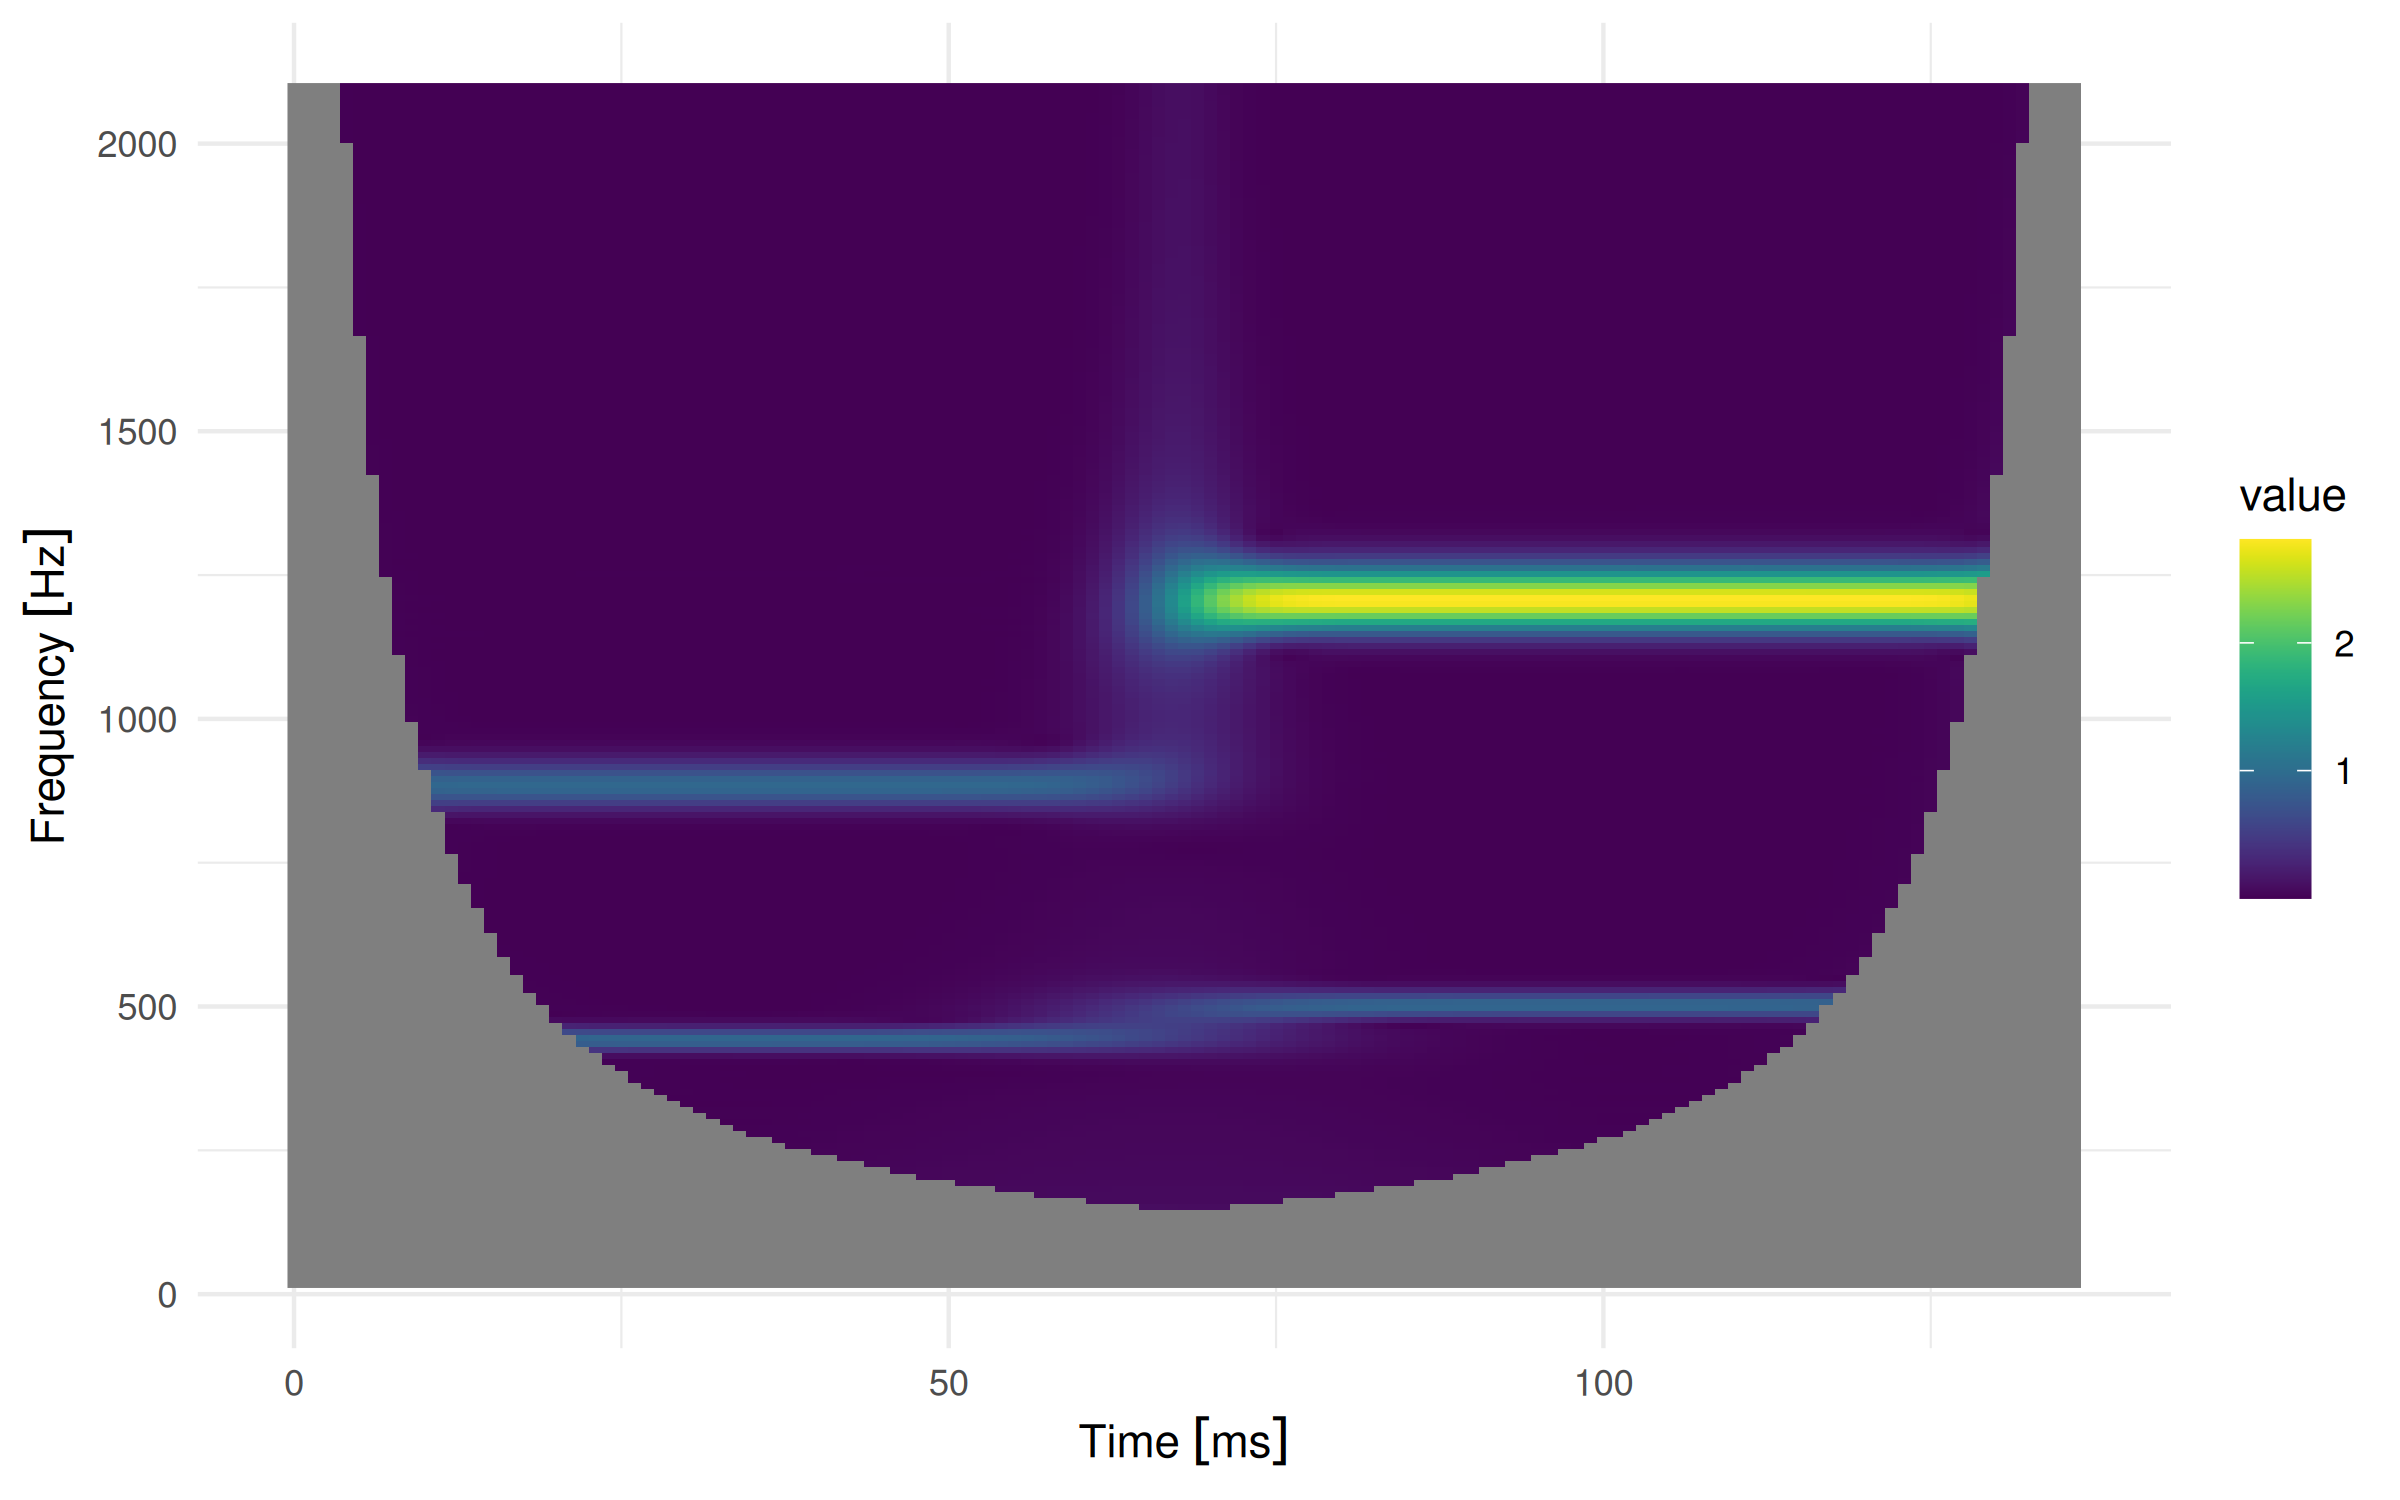
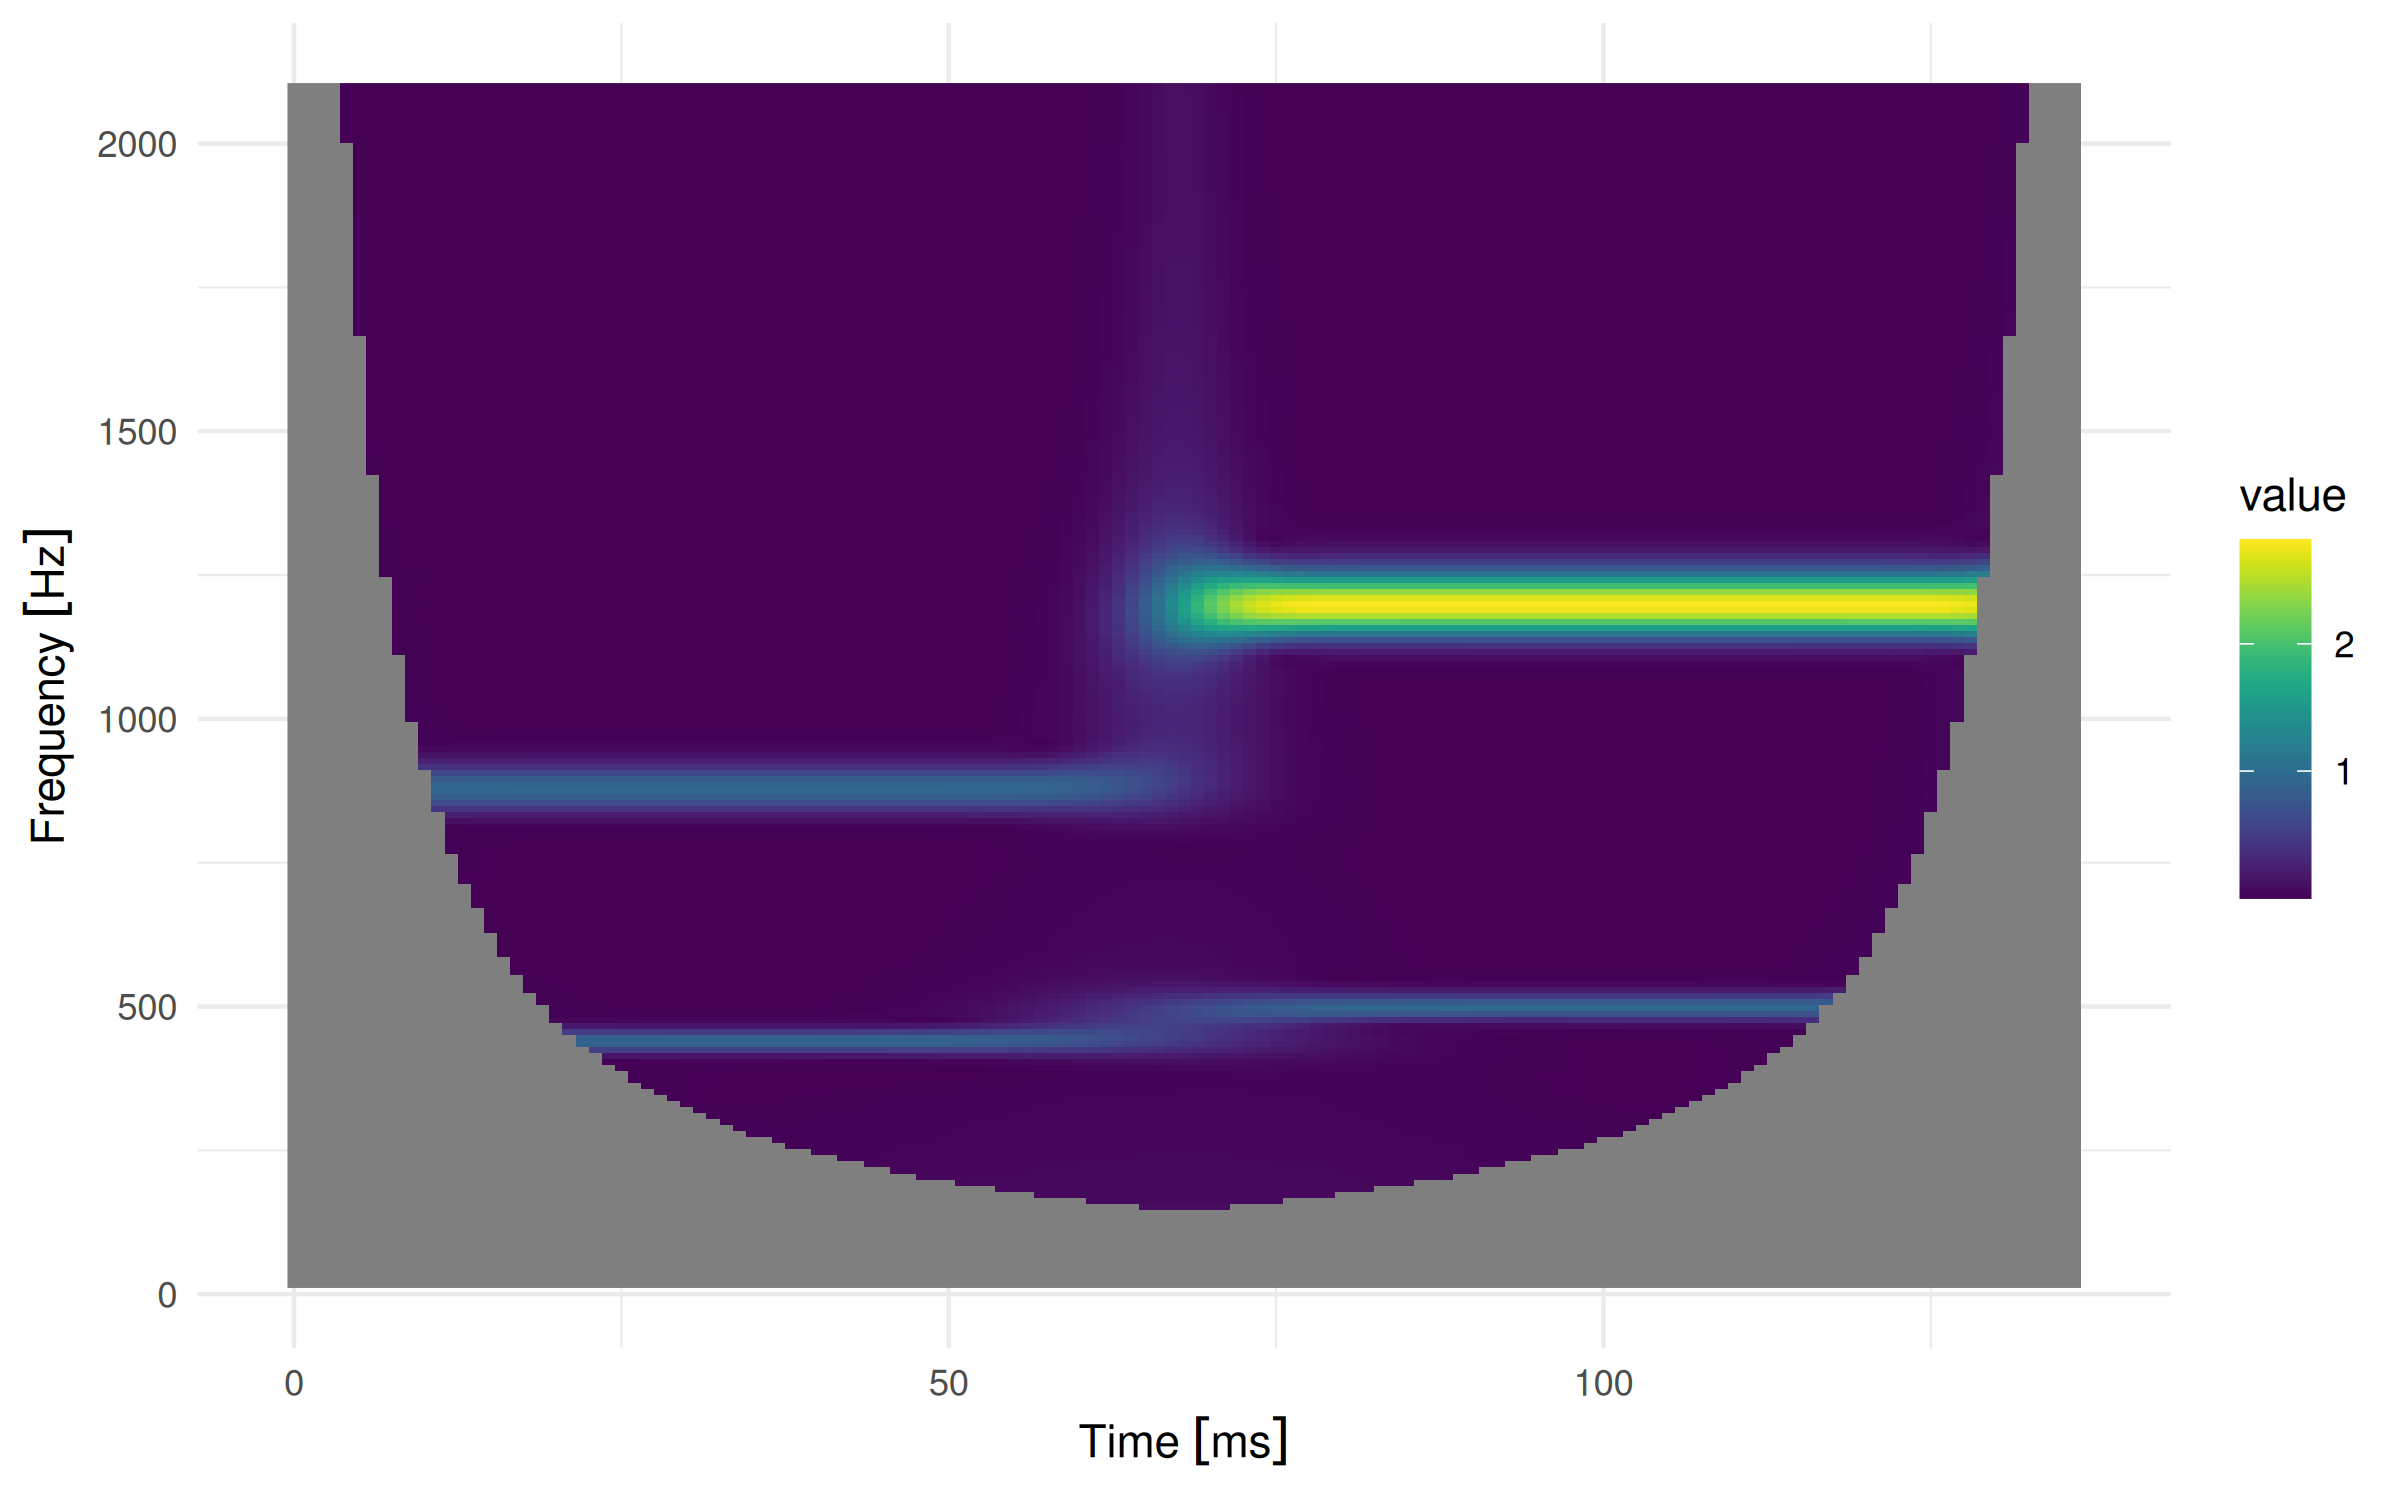
choose time units automatically, README example with exact time steps
- new internal helper pretty_time(): expresses times in s, ms, us or ns,
  depending on their magnitude (the units package keeps the unit that
  results from a calculation, e.g. 1/kHz)
- used for the time column of as.data.frame()/as_tibble(), the time
  offset and resolutions in print(), and the time axis of plot() /
  autoplot() (time_unit now defaults to NULL, i.e. automatic)
- README example: x_sample_freq = 44 kHz and y_sample_freq = 1 kHz, so
  that the output averages over exactly 44 samples (1 ms time steps)

Changed region(s): [[0.5, 0.368, 0.8438, 0.4293]]

diff --git a/README.md b/README.md
@@ -102,7 +102,7 @@ signal <- ts_sin_superpos
 output <-
   fcwt(
     signal,
-    x_sample_freq = u(44.1, "kHz"),
+    x_sample_freq = u(44, "kHz"),
     sigma = 5,
     y_sample_freq = u(1, "kHz"),
     freq_begin = u(16, "Hz"),
@@ -123,12 +123,12 @@ output
 #> * Frequency scale: 16 [Hz] - 2100 [Hz], linear
 #> * Time offset: 0 [s] 
 #> * Sigma: 5
-#>   o Time resolution at  16 [Hz] :  1.25 [1/Hz] 
-#>   o Time resolution at  2100 [Hz] :  0.00952381 [1/Hz] 
+#>   o Time resolution at  16 [Hz] :  1.25 [s] 
+#>   o Time resolution at  2100 [Hz] :  9.52381 [ms] 
 #>   o Relative frequency resolution:  0.127324 
 #> * Time/frequency matrix summary
 #>    Min. 1st Qu.  Median    Mean 3rd Qu.    Max.    NA's 
-#>  0.0000  0.0001  0.0012  0.1278  0.0345  2.8091    6671
+#>  0.0000  0.0001  0.0011  0.1267  0.0339  2.8194    6671
 ```
 
 The result can also be converted into a data frame:
@@ -136,23 +136,23 @@ The result can also be converted into a data frame:
 ``` r
 as.data.frame(output) |>
   head(10)
-#>    time_index      time      freq        value
-#> 1           0 0.000 [s] 2100 [Hz]           NA
-#> 2           1 0.001 [s] 2100 [Hz]           NA
-#> 3           2 0.002 [s] 2100 [Hz]           NA
-#> 4           3 0.003 [s] 2100 [Hz]           NA
-#> 5           4 0.004 [s] 2100 [Hz] 3.461469e-03
-#> 6           5 0.005 [s] 2100 [Hz] 1.478523e-03
-#> 7           6 0.006 [s] 2100 [Hz] 5.462569e-04
-#> 8           7 0.007 [s] 2100 [Hz] 1.859199e-04
-#> 9           8 0.008 [s] 2100 [Hz] 6.946518e-05
-#> 10          9 0.009 [s] 2100 [Hz] 3.650397e-05
+#>    time_index   time      freq        value
+#> 1           0 0 [ms] 2100 [Hz]           NA
+#> 2           1 1 [ms] 2100 [Hz]           NA
+#> 3           2 2 [ms] 2100 [Hz]           NA
+#> 4           3 3 [ms] 2100 [Hz]           NA
+#> 5           4 4 [ms] 2100 [Hz] 3.326482e-03
+#> 6           5 5 [ms] 2100 [Hz] 1.388348e-03
+#> 7           6 6 [ms] 2100 [Hz] 4.916695e-04
+#> 8           7 7 [ms] 2100 [Hz] 1.552785e-04
+#> 9           8 8 [ms] 2100 [Hz] 5.435228e-05
+#> 10          9 9 [ms] 2100 [Hz] 3.173394e-05
 ```
 
 We can also directly plot the resulting scalogram:
 
 ``` r
-plot(output, time_unit = "ms")
+plot(output)
 ```
 
 <img src="man/figures/README-example_plot-1.png" alt="" width="100%" />

diff --git a/NEWS.md b/NEWS.md
@@ -40,7 +40,7 @@
 
     -   negative and logical indices now adjust the time offset correctly. Indices that do not select a contiguous range raise an error (they cannot be represented by evenly spaced axes), use `as.matrix()` instead.
 
--   `as.data.frame()` / `as_tibble()`: the `time` column is again given in the inverse unit of the sampling frequency (e.g. `1/kHz`), as documented, instead of always in seconds.
+-   times are now given in a unit that suits their magnitude (s, ms, us, or ns): the `time` column of `as.data.frame()` / `as_tibble()`, the time offset and time resolutions in `print()`, and the time axis of `plot()` / `autoplot()` (whose `time_unit` argument now defaults to `NULL`, i.e. automatic).
 
 -   documentation fixes and improvements.
 
